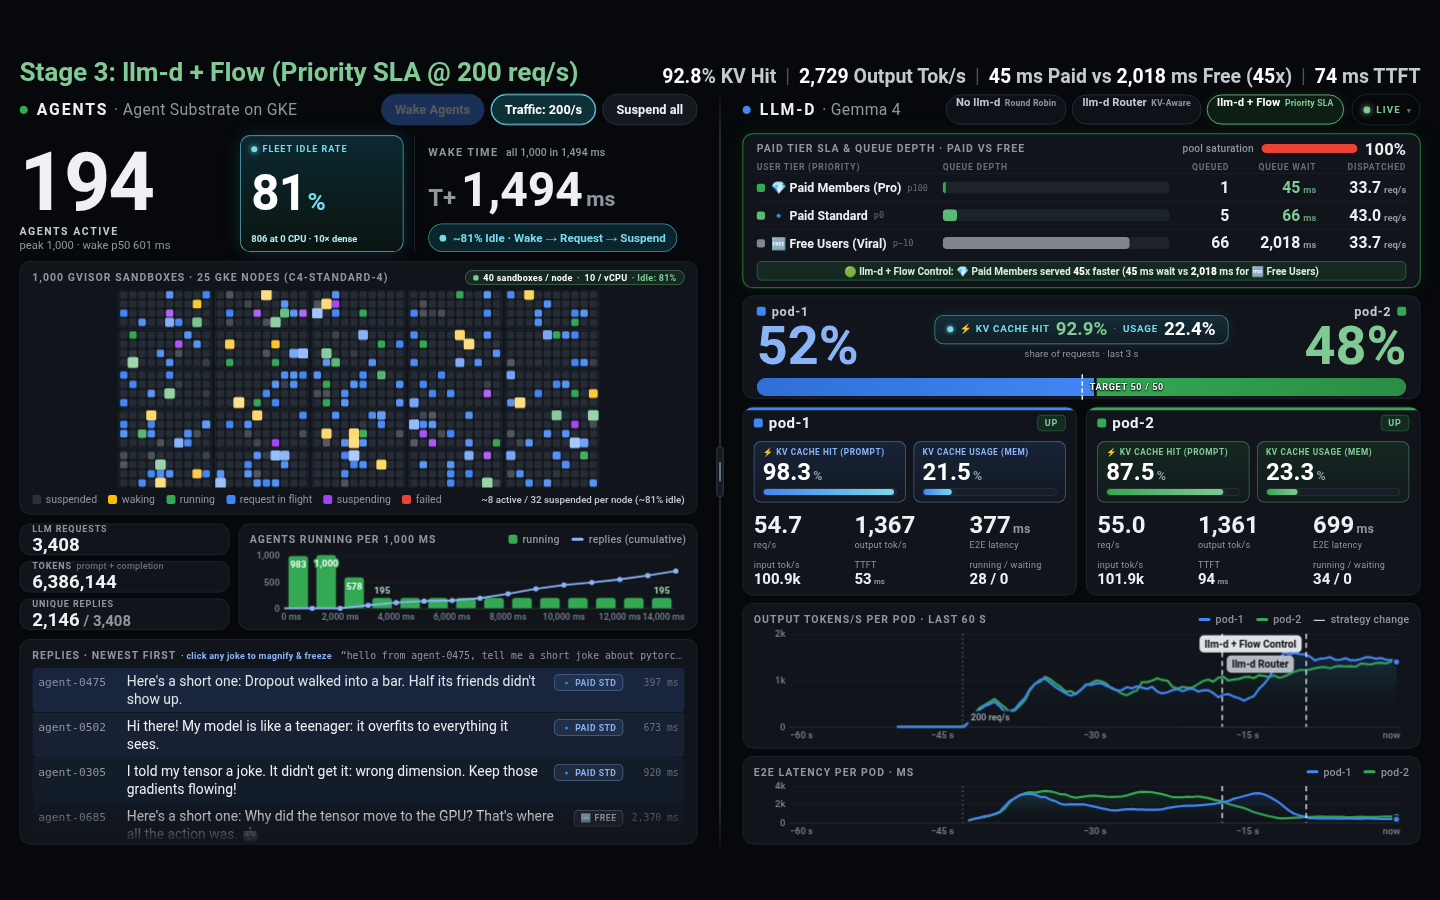
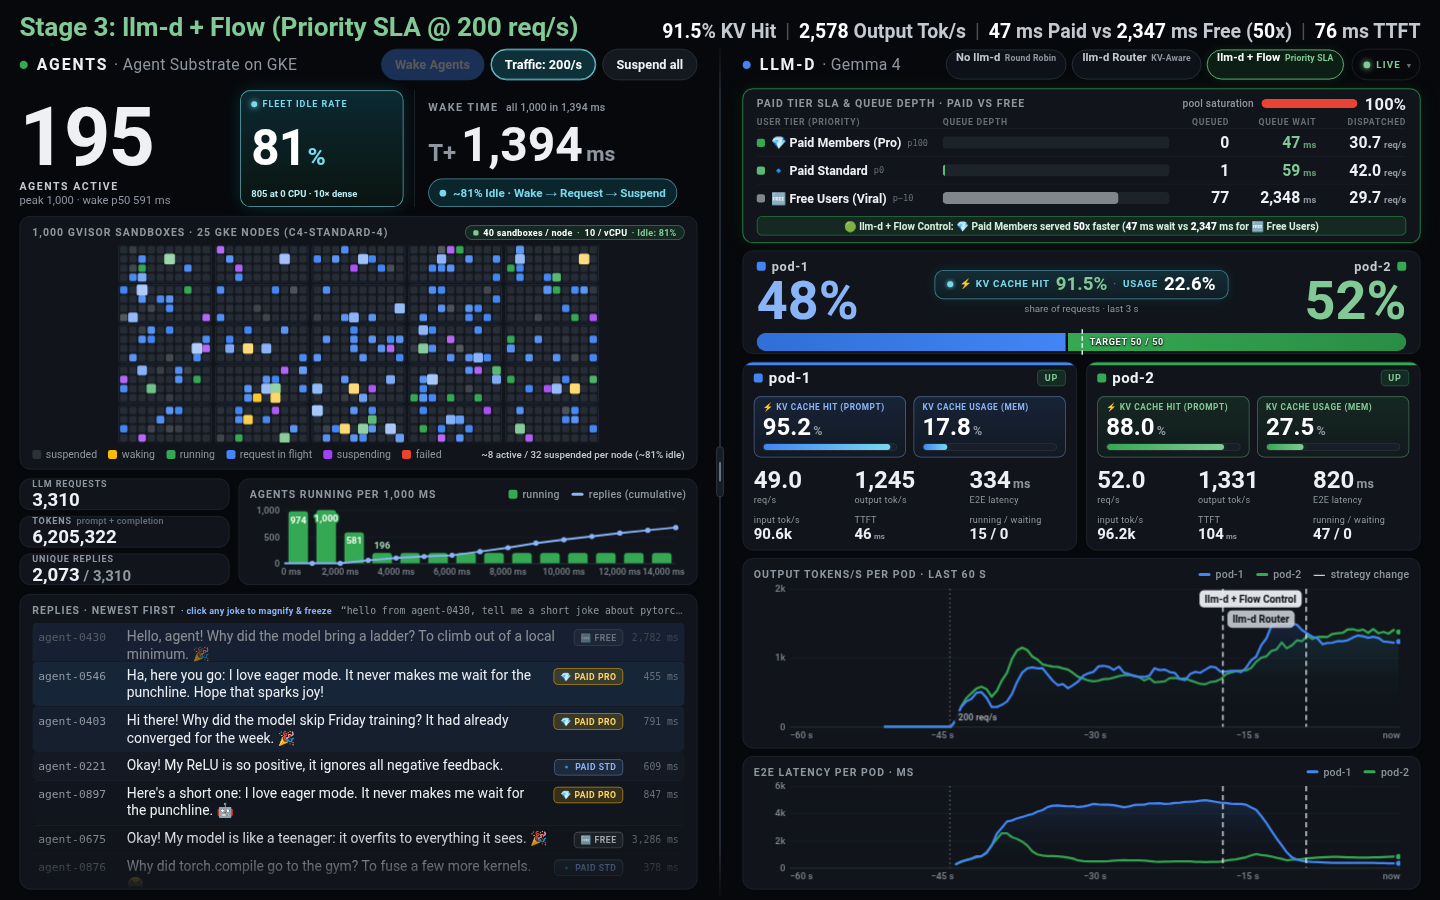
substrate: dashboard fills taller-than-16:9 windows (llm-d charts and ticker grow); 1440x900 screenshot

diff --git a/substrate/dashboard/index.html b/substrate/dashboard/index.html
@@ -21,7 +21,8 @@ html,body{margin:0;height:100%;overflow:hidden;background:var(--bg);color:var(--
 button{font-family:inherit;font-variant-numeric:tabular-nums}
 #stage{position:absolute;left:0;top:0;width:1920px;height:1080px;transform-origin:0 0;display:grid;
   grid-template-columns:954px 12px 954px;grid-template-rows:58px minmax(0,1fr);overflow:hidden;background:var(--bg)}
-.panel{position:relative;height:1022px;min-width:0;overflow:hidden}
+/* --xh: extra stage height in windows taller than 16:9 (set by fit(); 0 at 1920x1080) */
+.panel{position:relative;height:calc(1022px + var(--xh, 0px));min-width:0;overflow:hidden}
 /* fixed cells, so the Agents panel can be hidden (divider dragged all the way left) without moving the others */
 #left{grid-column:1;grid-row:2}
 .divider{grid-column:2;grid-row:2}
@@ -336,8 +337,9 @@ body.stale .data{opacity:.4;filter:saturate(.3);transition:opacity .3s,filter:sa
 .psm{display:grid;grid-template-columns:1fr 1.15fr 1fr;gap:6px}
 .mv{font-size:20px;font-weight:600;line-height:1.05;white-space:nowrap}
 
+/* the two charts share any extra stage height (--xh) evenly: the tokens chart takes what the latency chart leaves */
 .tokCard{flex:1;min-height:0;padding:10px 14px 6px;display:flex;flex-direction:column}
-.latCard{flex:none;height:118px;padding:9px 14px 6px;display:flex;flex-direction:column}
+.latCard{flex:none;height:calc(118px + var(--xh, 0px) / 2);padding:9px 14px 6px;display:flex;flex-direction:column}
 canvas.chart{flex:1 1 0px;min-height:0;width:100%;display:block}
 
 .flowCard{flex:none;height:206px;padding:8px 18px 9px;display:flex;flex-direction:column;transition:opacity .5s,border-color .4s,box-shadow .4s}
@@ -745,13 +747,20 @@ class Num {
   val(d = 0) { return this.cur === null ? d : this.cur; }
 }
 
-// ------------------------------------------------------------------ stage scaling (fit 1920x1080 to any viewport)
+// ------------------------------------------------------------------ stage scaling (fit the 1920-wide stage to any viewport)
+// The stage is 1920 px wide and 1080 tall at 16:9. A taller window (a 16:10 laptop screen, up to 4:3) gets a taller
+// stage instead of empty bands above and below it; the llm-d charts and the Agents ticker take the extra height
+// (--xh). A wider window still gets bands left and right.
+const STAGE_W = 1920, STAGE_H = 1080, STAGE_H_MAX = 1440;
 const stage = $('stage');
 let stageScale = 1;
 function fit() {
   const w = window.innerWidth, h = window.innerHeight;
-  stageScale = Math.min(w / 1920, h / 1080) || 1;
-  const x = Math.round((w - 1920 * stageScale) / 2), y = Math.round((h - 1080 * stageScale) / 2);
+  const sh = w > 0 && h > 0 ? clamp(Math.round((STAGE_W * h) / w), STAGE_H, STAGE_H_MAX) : STAGE_H;
+  stage.style.height = `${sh}px`;
+  stage.style.setProperty('--xh', `${sh - STAGE_H}px`);
+  stageScale = Math.min(w / STAGE_W, h / sh) || 1;
+  const x = Math.round((w - STAGE_W * stageScale) / 2), y = Math.round((h - sh * stageScale) / 2);
   stage.style.transform = (stageScale === 1 && !x && !y) ? 'none' : `translate(${x}px,${y}px) scale(${stageScale})`;
 }
 window.addEventListener('resize', fit);

diff --git a/substrate/README.md b/substrate/README.md
@@ -25,7 +25,7 @@ This folder has the dashboard, the orchestrator ("keynote driver"), the patches,
 
 ## 1. What the demo shows
 
-The dashboard is one 1920×1080 page with a draggable divider. Agents take 25–75% of the width, or none: drag the divider all the way left and llm-d fills the page. Double-click the divider for 50/50.
+The dashboard is one 1920×1080 page with a draggable divider. Agents take 25–75% of the width, or none: drag the divider all the way left and llm-d fills the page. Double-click the divider for 50/50. In a window taller than 16:9 (a 16:10 laptop screen, up to 4:3) the page gets taller instead of leaving empty bands above and below; the llm-d charts and the Agents ticker take the extra height. A wider window still gets bands left and right.
 
 **Left panel, "Agents":** 1,000 Agent Substrate actors (`agent-0001` … `agent-1000`).
 - Each agent is a gVisor sandbox. When idle it is paused to a snapshot on its node's local disk.
@@ -761,7 +761,7 @@ Done on 2026-09-26 against the live clusters. The rule was: run every build, dep
 
 **2026-10-03 evening (the same load in every stage):** the driver built from this folder (with `-overload-rate`) and the dashboard were copied into the running driver pod as in §6.10 (checksums compared), and the dashboard once more after the stage-title change; `/work/args` is unchanged. `api/state` then reported `stage_rates` 200 for every stage and `overload_rate` 0. The three stages were measured three times, once through the driver API and twice by clicking the dashboard in headless Chrome (top of §2). Nothing on the TPU side changed. The Hermes variant's driver was not touched; it serves the same dashboard file. Later that evening only the dashboard was copied again, for the banner's Output Tok/s, and one more dashboard run took the §2.3 screenshots.
 
-**2026-10-03 late evening (retries follow the stage; the Agents panel can be hidden):** the driver built from this folder and the dashboard were copied into the running driver pod as in §6.10 (checksums compared); `/work/args` is unchanged. The §9 test (25 s in Stage 3, then 40 s in Stage 2, through the driver API) ran on the old driver and again on the new one. Then one run used the dashboard in headless Chrome with real mouse and keyboard input: `W`, `T`, `2`, `3`, the divider dragged all the way left, a click on Stage 2, `S` with the Agents panel hidden, and a double-click on the divider. It had 9,141 LLM requests with 0 failed (43 retried once); Wake 1,000 took 1,982 ms and Suspend all 1,323 ms. `shoot.mjs` on the mock gave all its screenshots with no console errors; only the new `04d_llmd_full_width.png` was added to `docs/images/`. Nothing on the TPU side changed. The Hermes variant's driver was not touched; it serves the same dashboard file.
+**2026-10-03 late evening (retries follow the stage; the Agents panel can be hidden):** the driver built from this folder and the dashboard were copied into the running driver pod as in §6.10 (checksums compared); `/work/args` is unchanged. The §9 test (25 s in Stage 3, then 40 s in Stage 2, through the driver API) ran on the old driver and again on the new one. Then one run used the dashboard in headless Chrome with real mouse and keyboard input: `W`, `T`, `2`, `3`, the divider dragged all the way left, a click on Stage 2, `S` with the Agents panel hidden, and a double-click on the divider. It had 9,141 LLM requests with 0 failed (43 retried once); Wake 1,000 took 1,982 ms and Suspend all 1,323 ms. `shoot.mjs` on the mock gave all its screenshots with no console errors; only the new `04d_llmd_full_width.png` was added to `docs/images/`. Nothing on the TPU side changed. The Hermes variant's driver was not touched; it serves the same dashboard file. Then only the dashboard was copied again, so that windows taller than 16:9 fill their height: at 1920×1080 its layout matched the previous file box for box, on the mock and on the live page, and `shoot.mjs` again gave all its screenshots with no console errors (`07_1440x900.png` updated).
 
 The table below is from 2026-09-26.
 
